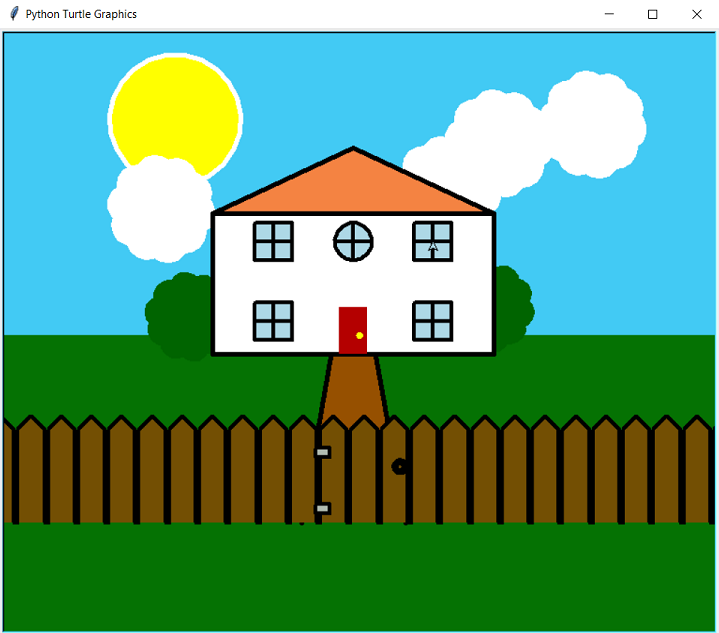
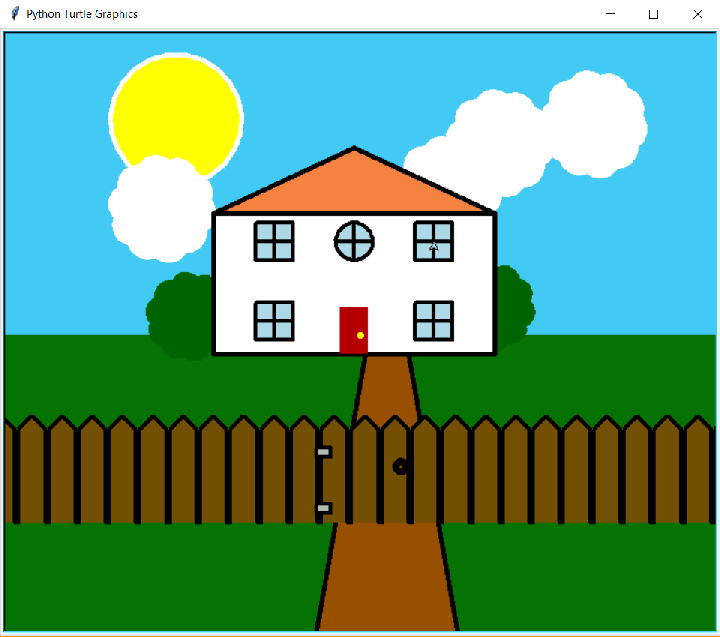
house picture

diff --git a/docs/CS161/shapes.py b/docs/CS161/shapes.py
@@ -65,15 +65,15 @@ def drawPath(pen):
   pen.color(0,0,0)
   pen.fillcolor("#965000")
   pen.penup()
-  pen.goto(-65,-200)
+  pen.goto(-65,-400)
   pen.begin_fill()
   pen.pendown()
   pen.right(10)
-  pen.forward(203)
+  pen.forward(403)
   pen.right(80)
   pen.forward(40)
   pen.right(80)
-  pen.forward(203)
+  pen.forward(403)
   pen.right(80)
   pen.end_fill()
   pen.setheading(90)  

diff --git a/docs/index.md b/docs/index.md
@@ -51,3 +51,26 @@ These pages are under constant construction, so check back often for updates.
 
 <Sub>I'm hosted with GitHub Pages and created in Markdown with KaTeX math rendering.
 Images unless otherwise noted are [Creative Commons CC0](https://creativecommons.org/publicdomain/zero/1.0/) copyright free from [PixaBay](https://pixabay.com)
+
+<!---
+<div id="disqus_thread"></div>
+<script>
+
+/**
+*  RECOMMENDED CONFIGURATION VARIABLES: EDIT AND UNCOMMENT THE SECTION BELOW TO INSERT DYNAMIC VALUES FROM YOUR PLATFORM OR CMS.
+*  LEARN WHY DEFINING THESE VARIABLES IS IMPORTANT: https://disqus.com/admin/universalcode/#configuration-variables*/
+
+var disqus_config = function () {
+this.page.url = PAGE_URL;  // Replace PAGE_URL with your page's canonical URL variable
+this.page.identifier = PAGE_IDENTIFIER; // Replace PAGE_IDENTIFIER with your page's unique identifier variable
+};
+
+(function() { // DON'T EDIT BELOW THIS LINE
+var d = document, s = d.createElement('script');
+s.src = 'https://ccut-course-comments.disqus.com/embed.js';
+s.setAttribute('data-timestamp', +new Date());
+(d.head || d.body).appendChild(s);
+})();
+</script>
+<noscript>Please enable JavaScript to view the <a href="https://disqus.com/?ref_noscript">comments powered by Disqus.</a></noscript>
+--->
